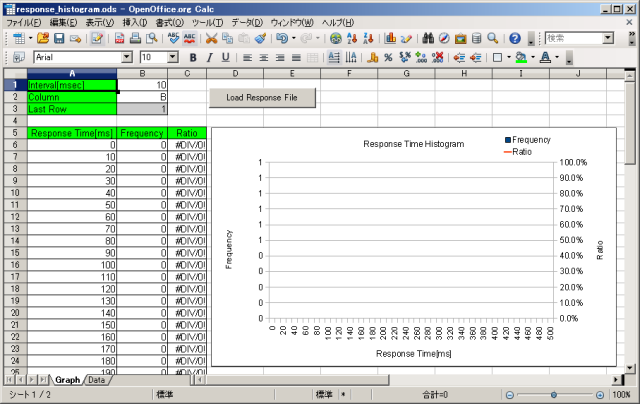
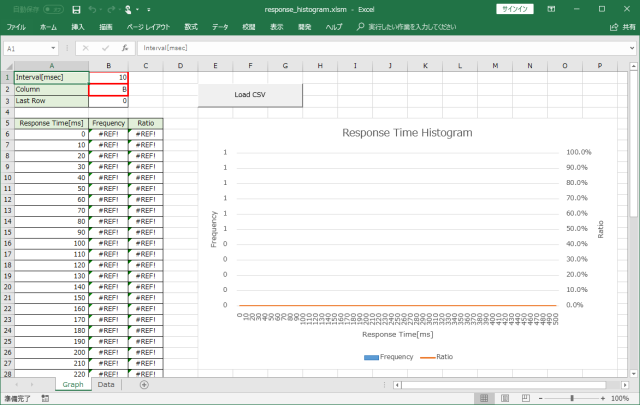
ドキュメント「その他の付属ツール」をLibreOffice版からExcel版に更新

diff --git a/docs_ja/misc.rst b/docs_ja/misc.rst
@@ -3,27 +3,25 @@
 
 この章では、JdbcRunnerに付属するその他のツールについて説明します。
 
-response_histogram.ods
-----------------------
+response_histogram.xlsm
+-----------------------
 
-miscディレクトリに、response_histogram.odsというOpenOffice.orgまたはLibreOffice用の表計算シートを用意しています。これはレスポンスタイムのヒストグラムを作成するためのものです。
+miscディレクトリに、response_histogram.xlsmというExcelシートを用意しています。これはレスポンスタイムのヒストグラムを作成するためのツールです。
 
 .. image:: images/response_sheet.png
 
-このシートにはマクロが組み込まれています。マクロを実行するにはツール→オプション→OpenOffice.org→セキュリティ→マクロセキュリティを中または低に設定する必要があります。
-
-シート内のボタンを押して、レスポンスタイムの度数分布データを読み込みます。
+このシートにはマクロが組み込まれています。マクロの実行を許可したうえで、シート内のボタンを押してレスポンスタイムの度数分布データを読み込みます。
 
 .. image:: images/response_open.png
 
 すると、以下のようなヒストグラムが描画されます。棒グラフが階級ごとの度数、折れ線グラフが累積相対度数を表しています。
 
-.. image:: images/response_graph.png
+.. image:: images/response_graph_1.png
 
 シート左上のパラメータで、階級の幅とグラフ化する列を変更することができます。
 
 .. image:: images/response_change.png
 
-例えば上記のデータで階級の幅を5ミリ秒に変更すると、以下のようになります。
+例えば上記のデータで階級の幅を5ミリ秒に変更すると、グラフの見た目が以下のように変わります。
 
-.. image:: images/response_graph_5.png
+.. image:: images/response_graph_2.png
